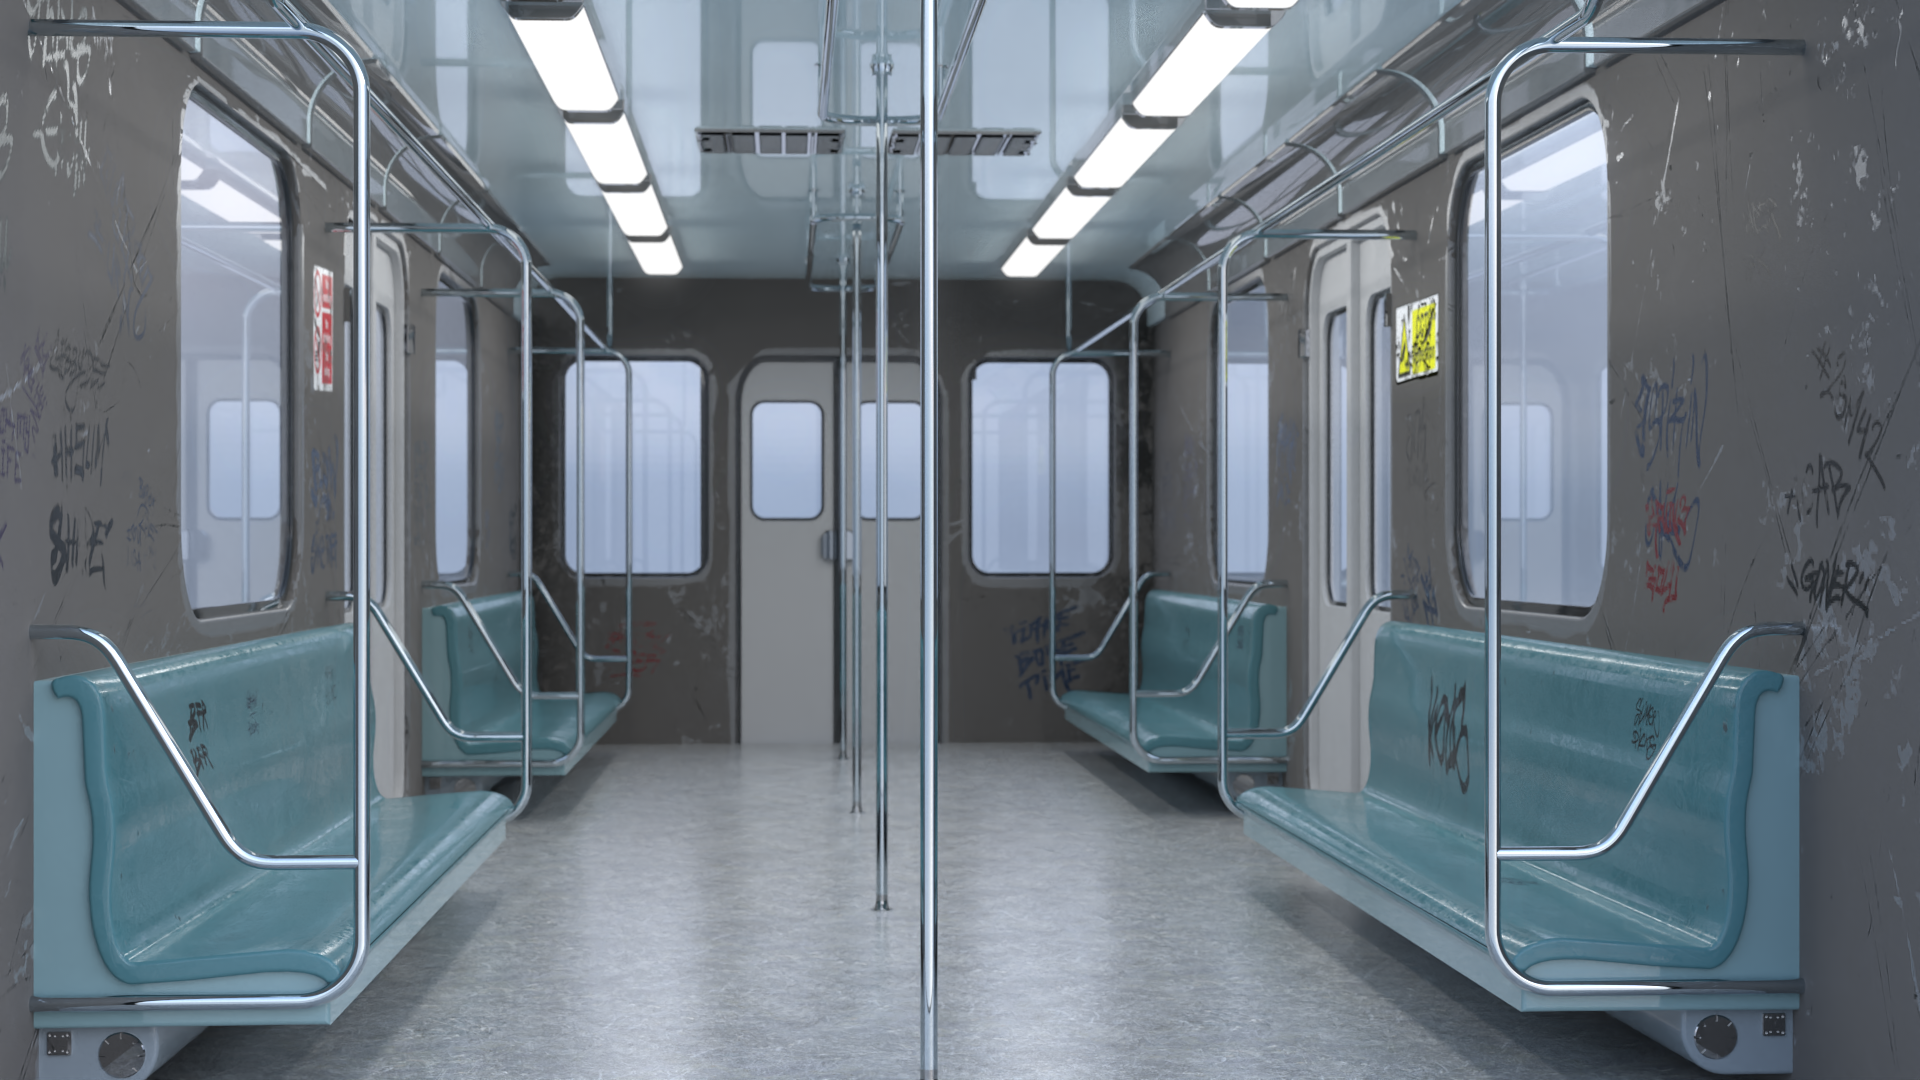
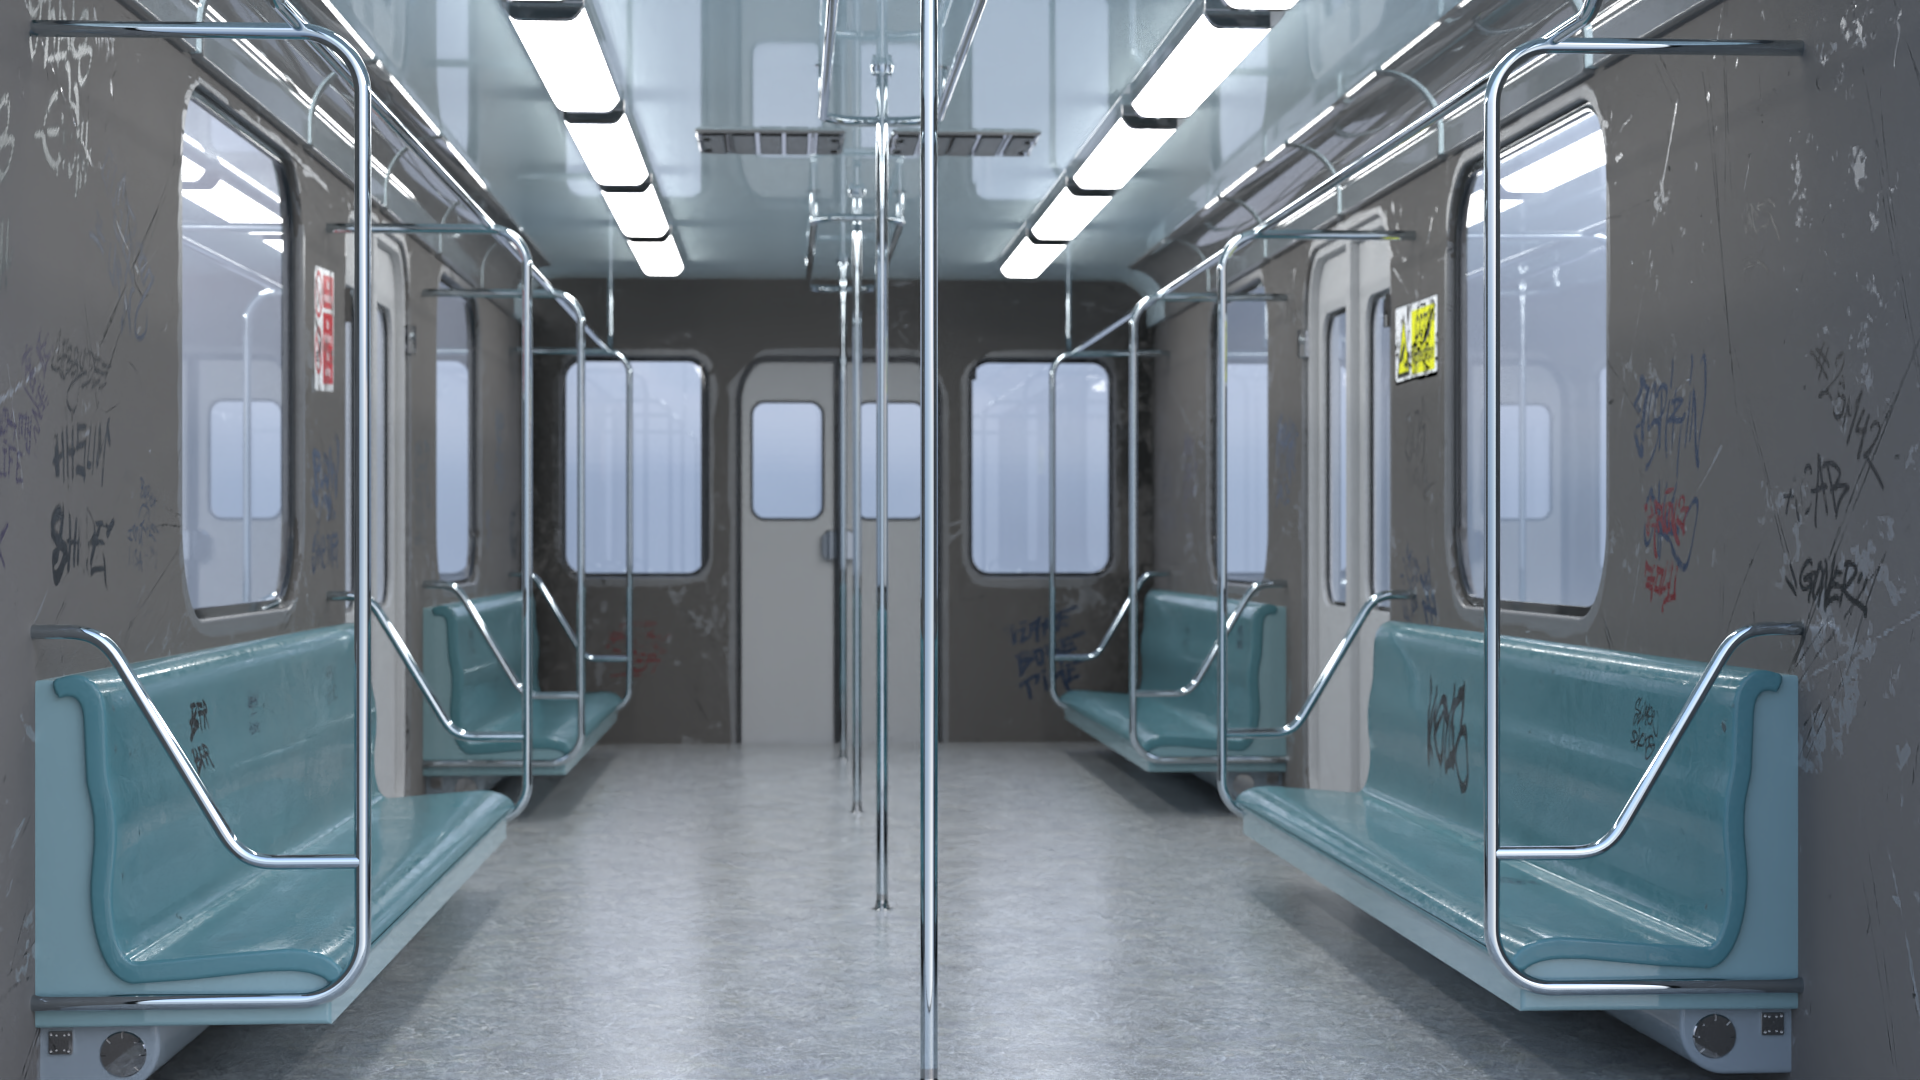
Properly sample UVs for MeshLight emissive material
Emissive materials now sample the correct UV coordinates instead of
using a hardcoded (0.5, 0.5) coordinate. In order for this to occur in a
seamless fashion, a new LightSample struct was created which contains
the direction to the light source as well as its intensity, or radiance.
The main benefactor of this change is the MeshLight light as it now
correctly interpolates the UVs of light triangles. A new Subway scene
was rendered that shows the drastic visual change. Additionally, it
seems that this change has the added benefit of a performance increase
as the Subway scene now renders in 6 minutes as opposed to the previous
7 minutes when rendering at 64 samples.

diff --git a/src/lights.rs b/src/lights.rs
@@ -3,7 +3,7 @@ use rand::{Rng, RngExt};
 
 use crate::bvh::BVH;
 use crate::extensions::DummyRng;
-use crate::materials::MaterialId;
+use crate::materials::{Material, MaterialId};
 use crate::primitive::Primitive;
 use crate::plane::{Axis, Bounds2D, Orientation, Plane};
 use crate::ray::Ray;
@@ -20,15 +20,13 @@ pub enum Light {
     Mesh(MeshLight),
 }
 
-impl Light {
-    pub fn intensity(&self, textures: &[Texture]) -> Vec3A {
-        match self {
-            Light::Point(light) => light.intensity(textures),
-            Light::Area(light) => light.intensity(textures),
-            Light::Mesh(light) => light.intensity(textures),
-        }
-    }
+#[derive(Clone, Copy)]
+pub struct LightSample {
+    pub direction: Vec3A,
+    pub radiance: Vec3A,
+}
 
+impl Light {
     pub fn evaluate_sampling_weight(&self, ray: &Ray) -> f32 {
         match self {
             Light::Point(light) => light.evaluate_sampling_weight(ray),
@@ -37,11 +35,17 @@ impl Light {
         }
     }
 
-    pub fn sample_direction_to_light(&self, origin: Vec3A, rng: &mut impl Rng) -> Vec3A {
+    pub fn sample_direction_and_radiance(&self, origin: Vec3A, materials: &[Material], textures: &[Texture], rng: &mut impl Rng) -> LightSample {
         match self {
-            Light::Point(light) => light.sample_direction_to_light(origin, rng),
-            Light::Area(light) => light.sample_direction_to_light(origin, rng),
-            Light::Mesh(light) => light.sample_direction_to_light(origin, rng),
+            Light::Point(light) => LightSample {
+                direction: light.sample_direction_to_light(origin, rng),
+                radiance: light.intensity(textures),
+            },
+            Light::Area(light) => LightSample {
+                direction: light.sample_direction_to_light(origin, rng),
+                radiance: light.intensity(textures),
+            },
+            Light::Mesh(light) => light.sample_direction_and_radiance(origin, materials, textures, rng),
         }
     }
 
@@ -147,13 +151,13 @@ impl AreaLight {
 pub struct MeshLight {
     cdf: Vec<f32>,
     total_area: f32,
-    intensity: TextureId,
+    material_id: MaterialId,
     accelerator: BVH,
 }
 
 impl MeshLight {
     /// Create a new MeshLight from the given triangles
-    pub fn new(triangles: Vec<Triangle>, intensity: TextureId) -> MeshLight {
+    pub fn new(triangles: Vec<Triangle>, material_id: MaterialId) -> MeshLight {
         let mut light_triangles = Vec::new();
         let mut cdf = Vec::new();
         let mut total_area = 0.0;
@@ -175,7 +179,7 @@ impl MeshLight {
 
         let accelerator = BVH::new(geometries);
 
-        MeshLight { cdf, total_area, intensity, accelerator }
+        MeshLight { cdf, total_area, material_id, accelerator }
     }
 
     /// Sample a random triangle from the accelerator
@@ -193,20 +197,16 @@ impl MeshLight {
         }
     }
 
-    pub fn intensity(&self, textures: &[Texture]) -> Vec3A {
-        let intensity = textures[self.intensity.index()].sample_texture(0.5, 0.5);
-        intensity
-    }
-
-
-    /// Sample the direction to this light source from the given origin
-    pub fn sample_direction_to_light(&self, origin: Vec3A, rng: &mut impl Rng) -> Vec3A {
+    /// Sample a point on the light and evaluate its material at that point's UV.
+    pub fn sample_direction_and_radiance(&self, origin: Vec3A, materials: &[Material], textures: &[Texture], rng: &mut impl Rng) -> LightSample {
         let triangle = self.sample_triangle(rng);
         let barycentric = uniform_sample_triangle(rng);
 
         let point_on_light = triangle.interpolate_position(barycentric);
+        let uv = triangle.interpolate_uv(barycentric);
+        let radiance = materials[self.material_id.index()].evaluate_emission_at_uv(uv.x, uv.y, textures);
 
-        point_on_light - origin
+        LightSample { direction: point_on_light - origin, radiance}
     }
 
     /// Evaluate the sampling weight of this MeshLight

diff --git a/src/io.rs b/src/io.rs
@@ -94,7 +94,7 @@ pub fn load_obj_with_options<'a>(
 
     if let Ok(obj_materials) = obj_material_list {
         for material in obj_materials {
-            let new_material = match &options.material_overrides {
+            let mapped_material = match &options.material_overrides {
                 Some(overrides) => {
                     if let Some(override_material) = overrides.get(&material.name) {
                         override_material.clone()
@@ -103,6 +103,14 @@ pub fn load_obj_with_options<'a>(
                     }
                 },
                 None => map_mtl_to_material(&material, textures, base_directory),
+            };
+
+             let new_material = match mapped_material {
+                Material::Emissive(emissive) => {
+                    let intensity = emissive.intensity.unwrap_or(1.0) * options.emissive_scale;
+                    emissive.with_intensity(intensity).into()
+                }
+                material => material,
             };
 
             let mat_id = materials.add_material(new_material);
@@ -179,16 +187,9 @@ pub fn load_obj_with_options<'a>(
 
         // if lights is None then light_triangles will be empty
         if !light_triangles.is_empty() {
-            if let Material::Emissive(material) = &materials[current_material_id.index()] {
-                let emissive_scale = options.emissive_scale;
-                let intensity = textures[material.emissive_color.index()].sample_texture(0.5, 0.5) * emissive_scale;
-                let intensity_texture = Color::from(intensity);
-                let intensity_texture_id = textures.add_texture(intensity_texture);
-
-                if let Some(lights) = lights.as_deref_mut() {
-                    let mesh_light = MeshLight::new(light_triangles, intensity_texture_id);
-                    lights.add_light(mesh_light);
-                }
+            if let Some(lights) = lights.as_deref_mut() {
+                let mesh_light = MeshLight::new(light_triangles, current_material_id);
+                lights.add_light(mesh_light);
             }
         }
 

diff --git a/src/materials.rs b/src/materials.rs
@@ -92,6 +92,18 @@ impl Material {
         }
     }
 
+    /// Evaluate emitted radiance at the given UV coordinates
+    pub fn evaluate_emission_at_uv(&self, u: f32, v: f32, textures: &[Texture]) -> Vec3A {
+        match self {
+            Material::Emissive(m) => m.evaluate_emission_at_uv(u, v, textures),
+            Material::Diffuse(_)
+            | Material::Plastic(_)
+            | Material::Reflective(_)
+            | Material::Refractive(_)
+            | Material::Volumetric(_) => Vec3A::ZERO
+        }
+    }
+
     /// Compute the manner in which the material reflects/absorbs light
     pub fn compute_reflectance(&self, ray: &Ray, scattered: &Ray, hit: &HitResult, textures: &[Texture]) -> Vec3A {
         match self {
@@ -505,7 +517,13 @@ impl Emissive {
         if hit.shading_normal.dot(ray.direction) >= 0.0 {
             return Vec3A::ZERO;
         }
-        let emission = textures[self.emissive_color.index()].sample_texture(hit.u, hit.v);
+
+        self.evaluate_emission_at_uv(hit.u, hit.v, textures)
+    }
+
+    /// Evaluate the emission of the material at the given UV coordinates.
+    fn evaluate_emission_at_uv(&self, u: f32, v: f32, textures: &[Texture]) -> Vec3A {
+        let emission = textures[self.emissive_color.index()].sample_texture(u, v);
         self.intensity.map_or(emission, |intensity| emission * intensity)
     }
 }

diff --git a/src/integrator.rs b/src/integrator.rs
@@ -248,7 +248,8 @@ fn evaluate_direct_lighting(
     let shadow_origin = find_offset_point(hit_result.point, hit_result.geometric_normal);
 
     for light_source in &scene.lights {
-        let light_direction_vector = light_source.sample_direction_to_light(shadow_origin, rng);
+        let light_sample = light_source.sample_direction_and_radiance(shadow_origin, &scene.materials, &scene.textures, rng);
+        let light_direction_vector = light_sample.direction;
         let light_distance = light_direction_vector.length();
         let light_direction = light_direction_vector.normalize();
 
@@ -262,7 +263,7 @@ fn evaluate_direct_lighting(
                 let material_weight = scatter_result.sampling_strategy.calculate_probability(light_direction);
                 let weight = power_heuristic(light_weight, material_weight);
                 let contribution = scatter_result.contribution;
-                let intensity = light_source.intensity(&scene.textures);
+                let intensity = light_sample.radiance;
                 direct_light += (weight * throughput * intensity * contribution * reflectance) / light_weight;
             }
         }

diff --git a/src/triangle.rs b/src/triangle.rs
@@ -58,6 +58,10 @@ impl Triangle {
         point.x * self.v0 + point.y * self.v1 + point.z * self.v2
     }
 
+    pub fn interpolate_uv(&self, point: Vec3A) -> Vec2 {
+        point.x * self.uv0 + point.y * self.uv1 + point.z * self.uv2
+    }
+
     /// Determine whether or not a ray hits the triangle
     ///
     /// Reference:
@@ -291,5 +295,13 @@ mod tests {
 
         let ray_away = Ray::new(Vec3A::new(0.0, 0.0, 2.0), Vec3A::new(0.0, 0.0, 1.0), 0.0);
         assert!(triangle.hit(&ray_away, 0.001, 100.0).is_none());
+    }
+
+    #[test]
+    fn test_interpolate_uv() {
+        let triangle = create_test_triangle();
+        let uv = triangle.interpolate_uv(Vec3A::new(0.25, 0.25, 0.5));
+
+        assert_eq!(uv, Vec2::new(0.25, 0.5));
     }
 }
